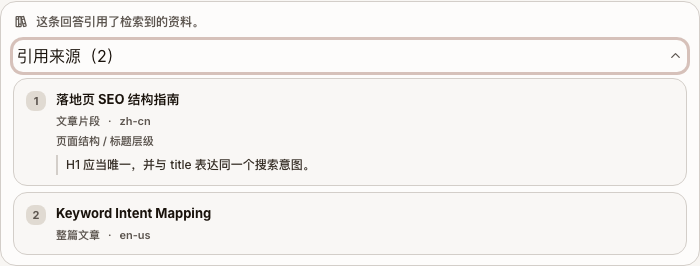
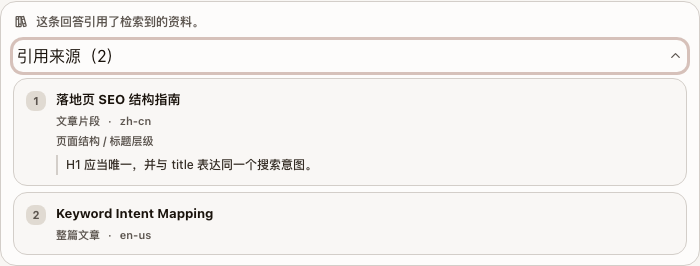
fix(web): 补齐 Task 3B 窄屏 answered 验收证据并修正文档事实冲突
处理 PR #61 的 GPT 技术验收阻塞项，不扩展功能范围。

B-01 补齐 Issue #60 指定但缺失的 Chromium 场景：

- 新增 `ANSWERED_LONG_GROUNDING` fixture（answered + available，2 条
  Citation，其中一条带超长 title / sectionPath / excerpt）；
- 新增窄屏 320x720 用例：默认收起、展开后长字段完整可读、编号跟随 contract
  顺序、不泄漏内部字段、无可点击来源，并对页面根节点、Grounding Panel 与
  每张卡片分别断言无横向溢出；
- 新增截图 `narrow-answered-long-sources.png`；
- `CONFLICTING_GROUNDING` 保持 conflicting + partial 不变，窄屏非成功状态
  覆盖没有被替换掉。

B-02 修正 `task-03b-web-source-ui.md` 的内部事实冲突：

- 第 2 节从「仍未启动」更新为真实状态（Issue #60 / Gate READY / PR #61
  Draft / 已实现 / 待验收，尚未 Completed 也未获转 Ready 授权）；
- D-07 与 Issue #60 D-05 对齐，去掉「或显示不可用状态」的可选项；
- 验证结果补 exit code，并去掉无法由本轮证据支撑的 lint 结论。

验证（全部本地实际执行）：

- typecheck / web lint / web build 均 exit 0
- `test:seo-stream` 12/12、`test` 43/43
- `test:e2e` 9/9，`--repeat-each=3` 27/27
- 根 `pnpm lint` 仍 exit 1（115 errors / 18 个 docs Markdown 文件）；本轮未做
  基线对比，仅确认这些报错文件与本 PR 改动文件无交集

diff --git a/apps/web/e2e/grounding.spec.ts b/apps/web/e2e/grounding.spec.ts
@@ -6,12 +6,14 @@ import { expect, test } from '@playwright/test'
 
 import {
   ANSWERED_GROUNDING,
+  ANSWERED_LONG_GROUNDING,
   CONFLICTING_GROUNDING,
   createAssistantMessage,
   createCitation,
   createUserMessage,
   installApiRoutes,
   installBrowserStubs,
+  LONG_SOURCE_TEXT,
   toNdjsonLines,
   toTerminalNdjsonLines,
   UNAVAILABLE_GROUNDING,
@@ -185,6 +187,71 @@ test.describe('非成功状态与布局', () => {
 
     await page.locator(GROUNDING).screenshot({
       path: `${SCREENSHOT_DIR}desktop-insufficient-unavailable.png`,
+    })
+  })
+
+  test('AC-01 / AC-11：窄屏 answered + 超长来源内容完整可读且不横向溢出', async ({ page }) => {
+    const messages = [
+      createUserMessage('user-1', '多语言落地页的信息架构怎么设计？', '2026-08-16T08:00:00.000Z'),
+      createAssistantMessage(
+        'assistant-1',
+        '按地区拆分落地页，并让每个页面的标题层级与关键词意图一一对应。',
+        '2026-08-16T08:00:01.000Z',
+        ANSWERED_LONG_GROUNDING,
+      ),
+    ]
+
+    await page.setViewportSize({ width: 320, height: 720 })
+    await installApiRoutes(page, () => messages)
+    await installBrowserStubs(page, { lines: [], holdBeforeIndex: -1 })
+    await openWorkspace(page)
+
+    // 窄屏下仍然是 answered 语义：没有 partial 补充说明，来源列表默认收起。
+    await expect(page.locator(STATUS)).toHaveText('这条回答引用了检索到的资料。')
+    await expect(page.locator(NOTE)).toHaveCount(0)
+    await expect(page.locator(TOGGLE)).toHaveText(/引用来源（2）/)
+    await expect(page.locator(SOURCES)).toBeHidden()
+
+    await page.locator(TOGGLE).click()
+
+    const cards = page.locator(`${SOURCES} > li`)
+
+    await expect(cards).toHaveCount(2)
+
+    // 展开后长字段完整可读，没有被截断成省略号或裁掉。
+    await expect(cards.nth(0)).toContainText(LONG_SOURCE_TEXT.title)
+    await expect(cards.nth(0)).toContainText(LONG_SOURCE_TEXT.sectionPath)
+    await expect(cards.nth(0)).toContainText(LONG_SOURCE_TEXT.excerpt)
+    await expect(cards.nth(1)).toContainText('Locale-aware landing page templates')
+    await expect(cards.nth(1)).toContainText('整篇文章')
+
+    // 不泄漏内部字段，也不产生可点击来源。
+    const sourcesText = await page.locator(SOURCES).textContent() ?? ''
+
+    for (const leak of ['301', '304', 'article-301-chunk-0', 'locale-aware-templates', 'hybrid_rrf']) {
+      expect(sourcesText).not.toContain(leak)
+    }
+
+    await expect(page.locator(`${SOURCES} a, ${SOURCES} button, ${SOURCES} [role="link"]`)).toHaveCount(0)
+
+    const overflow = await page.evaluate(() => {
+      const root = document.documentElement
+      const panel = document.querySelector('[data-agent-grounding]')
+      const cardElements = [...document.querySelectorAll('[data-agent-grounding-sources] > li')]
+
+      return {
+        root: root.scrollWidth > root.clientWidth,
+        panel: panel ? panel.scrollWidth > panel.clientWidth : true,
+        cards: cardElements.some(card => card.scrollWidth > card.clientWidth),
+      }
+    })
+
+    expect(overflow).toEqual({ root: false, panel: false, cards: false })
+
+    // 截 Panel 本身而不是整页：会话区是内部滚动容器，整页截图会把长 excerpt 纵向裁掉，
+    // 反而看不出「完整可读」。宽度仍受 320px 视口约束，窄屏布局照样可核验。
+    await page.locator(GROUNDING).screenshot({
+      path: `${SCREENSHOT_DIR}narrow-answered-long-sources.png`,
     })
   })
 

diff --git a/apps/web/e2e/fixtures.ts b/apps/web/e2e/fixtures.ts
@@ -64,11 +64,49 @@ export const UNAVAILABLE_GROUNDING: MessageGroundingV1 = {
   citations: [],
 }
 
-const LONG_TITLE = '面向多语言站点的落地页信息架构与关键词意图映射长标题压力测试用例标题标题标题标题标题'
-const LONG_SECTION_PATH = '内容策略 / 信息架构 / 关键词意图映射 / 长尾词分组 / 页面模板与内链结构设计'
-const LONG_EXCERPT = '在多语言站点中，同一个关键词意图往往需要按地区拆分为不同落地页；'
-  + '如果只用一套模板覆盖全部语言，标题层级、内链锚文本和结构化数据都会互相冲突，'
-  + '导致搜索引擎难以判断每个页面的主要意图，最终稀释整体排名表现。'
+/** 窄屏溢出验收使用的超长展示字段；导出供 spec 断言「完整可读」。 */
+export const LONG_SOURCE_TEXT = {
+  title: '面向多语言站点的落地页信息架构与关键词意图映射长标题压力测试用例标题标题标题标题标题',
+  sectionPath: '内容策略 / 信息架构 / 关键词意图映射 / 长尾词分组 / 页面模板与内链结构设计',
+  excerpt: '在多语言站点中，同一个关键词意图往往需要按地区拆分为不同落地页；'
+    + '如果只用一套模板覆盖全部语言，标题层级、内链锚文本和结构化数据都会互相冲突，'
+    + '导致搜索引擎难以判断每个页面的主要意图，最终稀释整体排名表现。',
+} as const
+
+const { title: LONG_TITLE, sectionPath: LONG_SECTION_PATH, excerpt: LONG_EXCERPT } = LONG_SOURCE_TEXT
+
+/**
+ * answered + available：长内容，用于窄屏 answered 布局验收。
+ *
+ * 与 `CONFLICTING_GROUNDING` 刻意分开：窄屏 answered 与窄屏非成功状态是两个
+ * 独立场景，合并成一个会丢掉其中一边的覆盖。
+ */
+export const ANSWERED_LONG_GROUNDING: MessageGroundingV1 = {
+  schemaVersion: 1,
+  evidenceAvailability: 'available',
+  outcome: 'answered',
+  citationIntegrity: 'validated',
+  faithfulnessStatus: 'not_evaluated',
+  citations: [
+    createCitation({
+      title: LONG_TITLE,
+      sectionPath: LONG_SECTION_PATH,
+      excerpt: LONG_EXCERPT,
+    }),
+    createCitation({
+      citationId: 'cit_11111111222222223333333344444444',
+      sourceId: 304,
+      chunkId: null,
+      granularity: 'article',
+      title: 'Locale-aware landing page templates',
+      slug: 'locale-aware-templates',
+      languageCode: 'en-us',
+      sectionPath: null,
+      excerpt: null,
+      rank: 2,
+    }),
+  ],
+}
 
 /** conflicting + partial：长内容，用于窄屏溢出验收。 */
 export const CONFLICTING_GROUNDING: MessageGroundingV1 = {

diff --git a/docs/tasks/phase-08-grounded-retrieval/task-03b-web-source-ui.md b/docs/tasks/phase-08-grounded-retrieval/task-03b-web-source-ui.md
@@ -18,7 +18,16 @@ Task 3B 的前置条件已经满足：
 - Grounding version、outcome、Citation identity 与 malformed fallback 已定案；
 - 真实 API 已覆盖 answered 与 insufficient；conflicting、legacy、error 与 aborted 继续由确定性 fixture 和浏览器验收覆盖。
 
-Task 3B 仍未启动。必须先创建独立 Issue，并由 Codex 执行 Clarification Gate；Next 不等于 Active。
+当前启动情况：
+
+- Issue #60 已创建；
+- Clarification Gate 已执行，结论 `READY`；
+- 分支 `codex/issue-60-web-source-ui` 已创建；
+- PR #61 已创建并保持 Draft；
+- 实施状态：已实现；
+- 验收状态：待验收。
+
+本 Task 尚未 Completed，用户尚未确认最终验收，也尚未授权 Draft 转 Ready、合并或分支清理。
 
 ## 3. 已确认交互决策
 
@@ -30,7 +39,7 @@ Task 3B 仍未启动。必须先创建独立 Issue，并由 Codex 执行 Clarifi
 | D-04 | legacy / 普通回答保持当前 Message UI | 无 Grounding 不显示空壳 |
 | D-05 | URL 由服务端安全投影提供 | 不把模型文本拼成 href；v1 `href` 当前为 null |
 | D-06 | answered / insufficient / conflicting 使用不同语义状态 | 不把“有候选”渲染成“已验证答案” |
-| D-07 | malformed Grounding 非致命 fail closed | 回答正文仍可显示，来源区域显示不可用状态或隐藏 |
+| D-07 | malformed Grounding 按「无 Grounding」处理 | 回答正文继续显示，Grounding 区域隐藏；不展示原始 JSON、解析错误、半份 Citation 或伪造的降级状态（与 Issue #60 D-05 一致） |
 | D-08 | aborted / error 不展示 completed Grounding | 避免半完成来源 |
 
 ## 4. 推荐 UI 结构
@@ -141,26 +150,36 @@ Web 侧不新增任何 Grounding 类型或校验规则，全部复用 `@agent/co
 
 ## 10. 验证结果
 
-均在本地实际执行并通过：
+均在本地实际执行：
 
-| 命令 | 结果 |
+| 命令 | exit code | 结果 |
+| --- | --- | --- |
+| `pnpm --filter @agent/contracts build` | 0 | 通过 |
+| `pnpm typecheck`（contracts / web / admin / api） | 0 | 通过 |
+| `pnpm --filter @agent/web lint` | 0 | 通过 |
+| `pnpm --filter @agent/web build` | 0 | 通过 |
+| `pnpm --filter @agent/web test:seo-stream` | 0 | 12 tests / 12 pass / 0 fail / 0 skip |
+| `pnpm --filter @agent/web test` | 0 | 43 tests / 43 pass / 0 fail / 0 skip |
+| `pnpm --filter @agent/web test:e2e`（Chromium） | 0 | 9 tests / 9 pass / 0 fail |
+| `pnpm --filter @agent/web exec playwright test --repeat-each=3` | 0 | 27 pass / 0 fail / 0 flaky |
+| `git diff --check` | 0 | 无空白问题 |
+
+仓库根 `pnpm lint` 仍然失败：exit code 1，115 errors / 0 warnings，分布在 18 个
+`docs/**` Markdown 文件。本轮未做基线对比，因此不声称「没有新增错误」；可直接
+验证的事实是：这 18 个报错文件与本 PR 改动的文件列表**没有交集**，且本 Task 的
+`apps/web` lint 单独通过（exit code 0）。
+
+浏览器证据（Chromium，`page.route()` + 受控 `fetch` 确定性 fixture，不依赖模型 Provider）：
+
+| 场景 | 截图 |
 | --- | --- |
-| `pnpm --filter @agent/contracts build` | 通过 |
-| `pnpm typecheck`（contracts / web / admin / api） | 通过 |
-| `pnpm --filter @agent/web lint` | 通过 |
-| `pnpm --filter @agent/web build` | 通过 |
-| `pnpm --filter @agent/web test:seo-stream` | 12 tests / 12 pass |
-| `pnpm --filter @agent/web test` | 43 tests / 43 pass |
-| `pnpm --filter @agent/web test:e2e`（Chromium） | 8 tests / 8 pass；`--repeat-each=3` 24/24 pass |
+| desktop answered + citations | `assets/task-03b/desktop-answered-sources.png` |
+| narrow answered + long source content | `assets/task-03b/narrow-answered-long-sources.png` |
+| desktop insufficient + unavailable | `assets/task-03b/desktop-insufficient-unavailable.png` |
+| narrow conflicting + partial | `assets/task-03b/narrow-conflicting-partial.png` |
 
-仓库根 `pnpm lint` 仍有 115 个既有 `docs/**` markdown 报错，属于本 Task 之前就存在的
-基线失败，本次未触碰这些文件。
-
-浏览器证据（Chromium，`page.route()` 确定性 fixture，不依赖模型 Provider）：
-
-- `assets/task-03b/desktop-answered-sources.png`
-- `assets/task-03b/desktop-insufficient-unavailable.png`
-- `assets/task-03b/narrow-conflicting-partial.png`
+reload 一致性不单独出图，由「实时 `done` 与 reload 后 status 文案、Citation 数量、
+来源区完整文本逐字相等」的 Chromium 断言提供等价证据。
 
 ## 11. GitHub 交付状态
 
